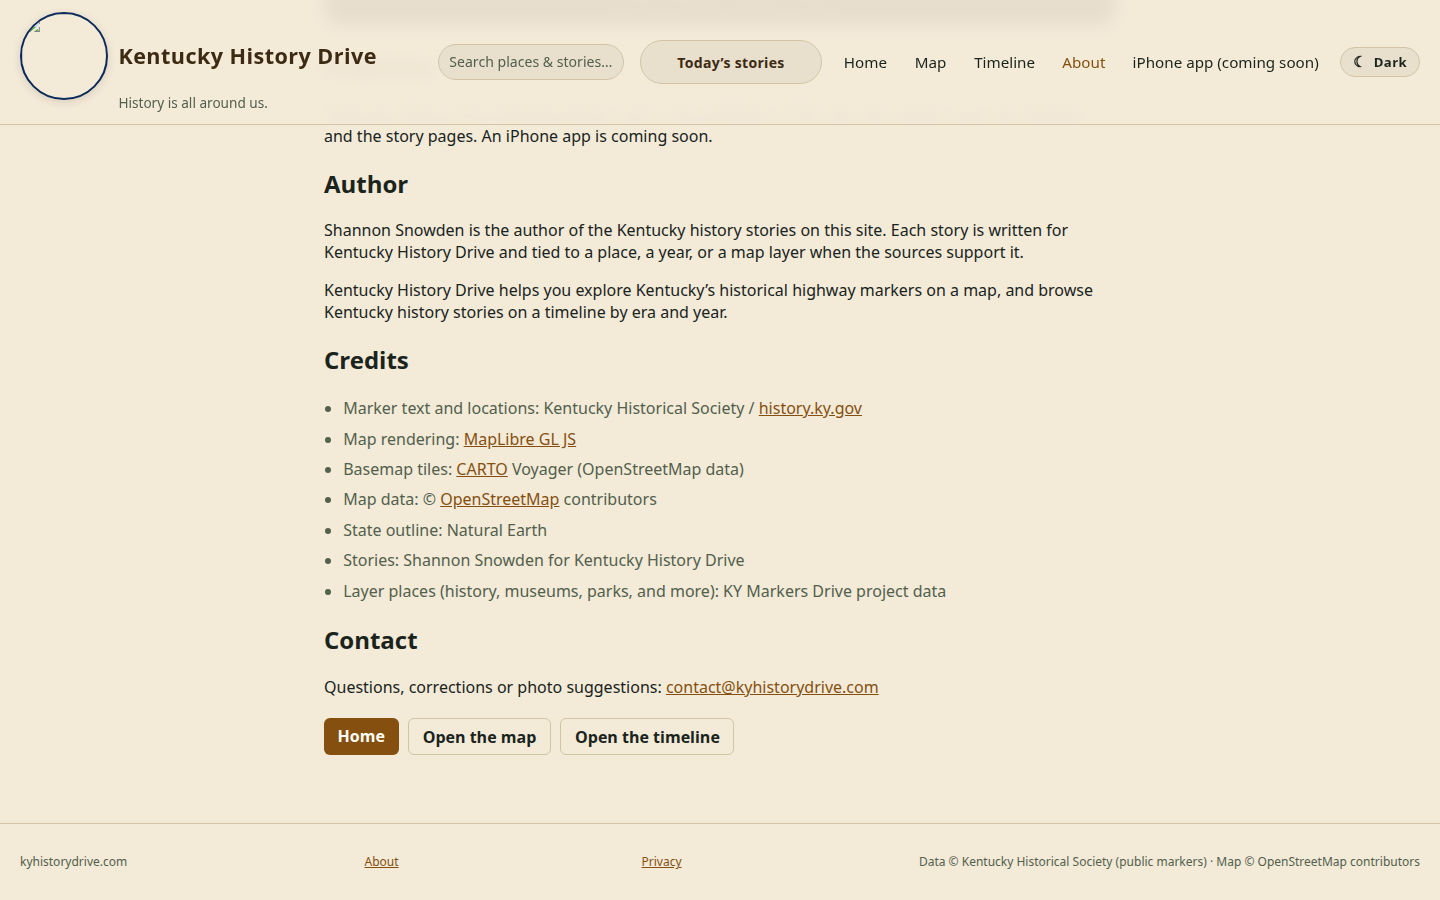
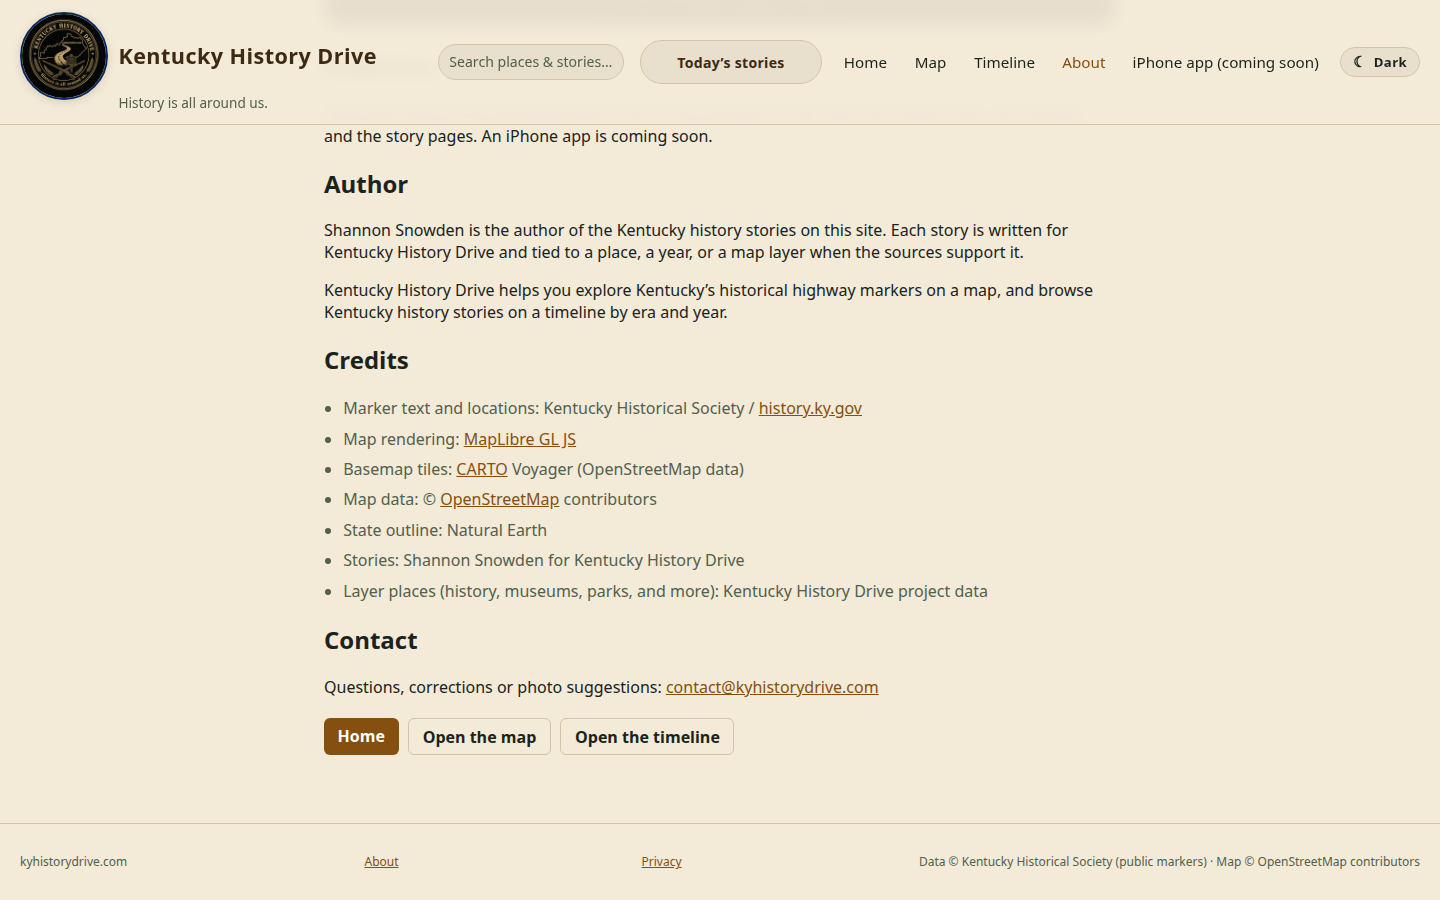
Fix the header seal path, privacy-choices wording, and credits name.
The rotating seal is always a root-absolute /brand/ path, the privacy page no longer says the footer link is always visible, and About credits name Kentucky History Drive.

Changed region(s): [[0.0, 0.0, 0.0938, 0.1244], [0.5, 0.6533, 0.6875, 0.6844]]

diff --git a/index.html b/index.html
@@ -4,7 +4,7 @@
     <meta charset="UTF-8" />
     <meta name="viewport" content="width=device-width, initial-scale=1.0" />
     <!-- Header seal rotation: pick before first paint (see #brandLogo). -->
-    <script>(function(){var L=['/brand/khd-logo.png','/brand/khd-logo-c.png','/brand/khd-logo-c2.png'],i;try{var n=parseInt(localStorage.getItem('khd-logo-n'),10);i=isNaN(n)?Math.floor(Math.random()*L.length):(n+1)%L.length;localStorage.setItem('khd-logo-n',String(i))}catch(e){i=Math.floor(Math.random()*L.length)}document.documentElement.setAttribute('data-logo',String(i));window.__khdLogo=L[i];if(i>0){var k=document.createElement('link');k.rel='preload';k.as='image';k.href=L[i];document.head.appendChild(k)}})()</script>
+    <script>(function(){var B='/brand/',L=[B+'khd-logo.png',B+'khd-logo-c.png',B+'khd-logo-c2.png'],i;try{var n=parseInt(localStorage.getItem('khd-logo-n'),10);i=isNaN(n)?Math.floor(Math.random()*L.length):(n+1)%L.length;localStorage.setItem('khd-logo-n',String(i))}catch(e){i=Math.floor(Math.random()*L.length)}document.documentElement.setAttribute('data-logo',String(i));window.__khdLogo=L[i];if(i>0){var k=document.createElement('link');k.rel='preload';k.as='image';k.href=L[i];document.head.appendChild(k)}})()</script>
     <title>Kentucky History Drive</title>
     <meta name="description" content="Kentucky history highlights, an open-source map of Historical Society markers, and a filterable timeline. An iPhone app is coming soon." />
     <link rel="canonical" href="https://kyhistorydrive.com/" />
@@ -77,7 +77,7 @@
       <div class="brand">
         <a href="/" class="brand-home" title="Home">
           <img class="brand-logo" id="brandLogo" src="/brand/khd-logo.png" width="88" height="88" alt="" />
-          <script>(function(){var im=document.getElementById('brandLogo'),s=window.__khdLogo;if(im&&s&&im.getAttribute('src')!==s)im.setAttribute('src',s)})()</script>
+          <script>(function(){var im=document.getElementById('brandLogo'),s=window.__khdLogo;if(!im||!s)return;if(s.indexOf('/brand/')!==0)s='/brand/'+String(s).split('/').pop();if(im.getAttribute('src')!==s)im.setAttribute('src',s)})()</script>
           <h1>Kentucky History Drive</h1>
         </a>
         <p class="tagline">History is all around us.</p>
@@ -393,7 +393,7 @@
         <li>Map data: © <a href="https://www.openstreetmap.org/copyright" target="_blank" rel="noopener">OpenStreetMap</a> contributors</li>
         <li>State outline: Natural Earth</li>
         <li>Stories: Kentucky history for the KY History Drive project</li>
-        <li>Layer places (history, museums, parks, and more): KY Markers Drive project data</li>
+        <li>Layer places (history, museums, parks, and more): Kentucky History Drive project data</li>
       </ul>
       <p class="muted about-app-data">
         iOS app data:

diff --git a/privacy/index.html b/privacy/index.html
@@ -4,7 +4,7 @@
     <meta charset="UTF-8" />
     <meta name="viewport" content="width=device-width, initial-scale=1.0" />
     <!-- Header seal rotation: pick before first paint (see #brandLogo). -->
-    <script>(function(){var L=['/brand/khd-logo.png','/brand/khd-logo-c.png','/brand/khd-logo-c2.png'],i;try{var n=parseInt(localStorage.getItem('khd-logo-n'),10);i=isNaN(n)?Math.floor(Math.random()*L.length):(n+1)%L.length;localStorage.setItem('khd-logo-n',String(i))}catch(e){i=Math.floor(Math.random()*L.length)}document.documentElement.setAttribute('data-logo',String(i));window.__khdLogo=L[i];if(i>0){var k=document.createElement('link');k.rel='preload';k.as='image';k.href=L[i];document.head.appendChild(k)}})()</script>
+    <script>(function(){var B='/brand/',L=[B+'khd-logo.png',B+'khd-logo-c.png',B+'khd-logo-c2.png'],i;try{var n=parseInt(localStorage.getItem('khd-logo-n'),10);i=isNaN(n)?Math.floor(Math.random()*L.length):(n+1)%L.length;localStorage.setItem('khd-logo-n',String(i))}catch(e){i=Math.floor(Math.random()*L.length)}document.documentElement.setAttribute('data-logo',String(i));window.__khdLogo=L[i];if(i>0){var k=document.createElement('link');k.rel='preload';k.as='image';k.href=L[i];document.head.appendChild(k)}})()</script>
     <title>Privacy — Kentucky History Drive</title>
     <meta
       name="description"
@@ -110,8 +110,9 @@
         message before personalized ads or analytics cookies. Visitors in US states that require it are
         shown a state privacy message. Both messages come from AdSense Privacy &amp; messaging, which is
         Google’s certified consent-management platform for those regions. The message updates Google
-        Consent Mode on the page. This site does not run a separate consent banner. The Privacy choices
-        link in the footer reopens that message when it is available.
+        Consent Mode on the page. This site does not run a separate consent banner. Visitors shown a
+        consent message can change their choice using the Privacy choices link, which appears in the
+        footer when consent applies.
       </p>
 
       <h3>Other requests</h3>
